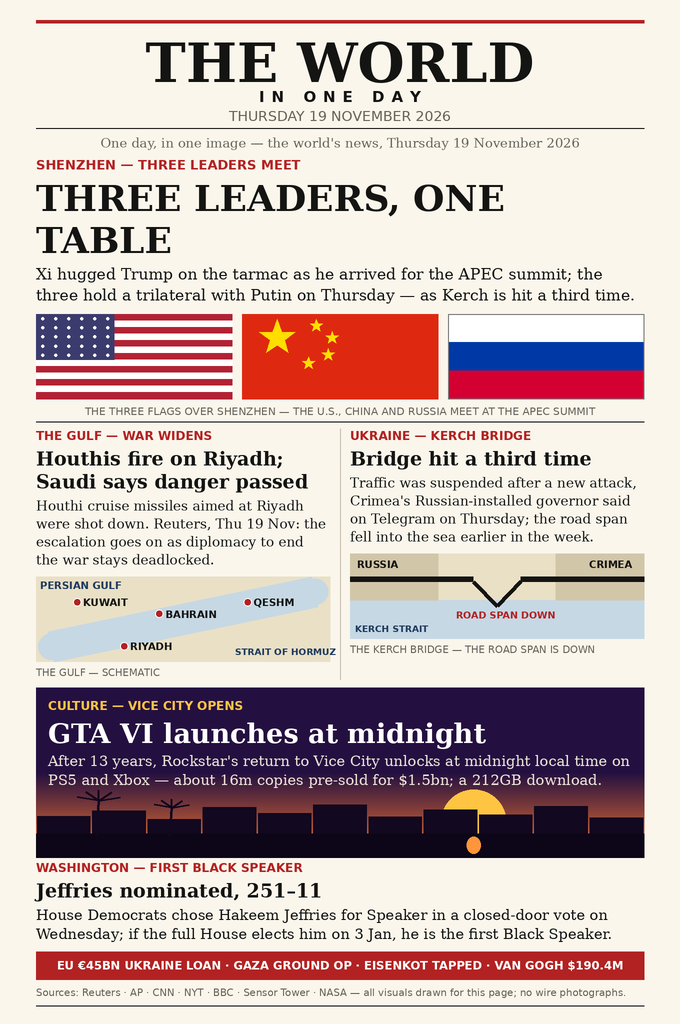
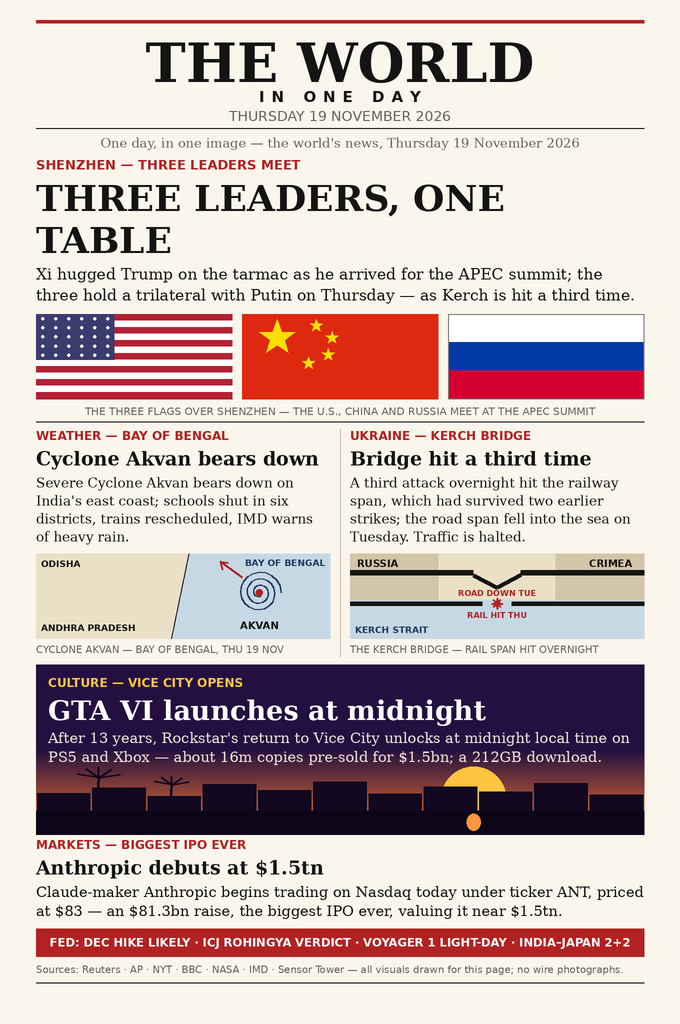
news-image-20261119: all stories genuinely 19 Nov — Akvan replaces Gulf, Anthropic replaces Jeffries, Kerch rail span hit, fresh ticker
- Gulf (18 Nov Houthi missiles) -> Cyclone Akvan: IMD bulletin, school closures, train reschedules all Thu 19 Nov; new Bay of Bengal cyclone schematic
- Jeffries (18 Nov vote) -> Anthropic IPO debut: Nasdaq trading starts Thu 19 Nov, $81.3bn raise, biggest IPO ever, ~$1.5tn
- Kerch: two-deck diagram now shows road span down Tue + rail span hit overnight Thu (the 19 Nov damage), not just the 17 Nov road span
- Ticker: Fed Dec hike likely, ICJ Rohingya verdict, Voyager 1 light-day, India-Japan 2+2 — all verified 19 Nov
- Lead (Shenzhen trilateral) and GTA VI midnight launch kept: both genuinely 19 Nov

Changed region(s): [[0.0309, 0.4062, 0.9574, 1.0]]

diff --git a/tools/render19.py b/tools/render19.py
@@ -136,46 +136,76 @@ def flag_ru(d, x, y, w, h):
     d.rectangle([x, y, x + w, y + h], outline=(120, 120, 120), width=2)
 
 
-def gulf_map(d, x, y, w, h):
-    """Schematic Persian Gulf: a diagonal sea band, four marked places."""
+def akvan_map(d, x, y, w, h):
+    """Cyclone Akvan over the Bay of Bengal: land left, sea right,
+    a spiral storm tracking north-northwest toward the coast."""
     d.rectangle([x, y, x + w, y + h], fill=LAND)
-    d.line([(x + 30, y + h - 30), (x + w - 30, y + 30)],
-           fill=SEA, width=64)
-    d.ellipse([x + 4, y + h - 56, x + 56, y + h - 4], fill=SEA)
-    d.ellipse([x + w - 56, y + 4, x + w - 4, y + 56], fill=SEA)
-    marks = [
-        ("KUWAIT", 0.14, 0.30),
-        ("BAHRAIN", 0.42, 0.44),
-        ("QESHM", 0.72, 0.30),
-        ("RIYADH", 0.30, 0.82),
-    ]
+    # sea: Bay of Bengal, coastline leaning left toward the bottom
+    d.polygon([(x + w * 0.52, y), (x + w, y), (x + w, y + h),
+               (x + w * 0.46, y + h)], fill=SEA)
+    d.line([(x + w * 0.52, y), (x + w * 0.46, y + h)], fill=INK, width=2)
+    # storm spiral (Archimedean, three turns) over the bay
+    scx, scy, rmax = x + w * 0.76, y + h * 0.46, 44
+    pts = []
+    for i in range(61):
+        t = i / 60
+        a = t * 3 * 2 * math.pi
+        r = 5 + t * (rmax - 5)
+        pts.append((scx + r * math.cos(a), scy + r * math.sin(a)))
+    d.line(pts, fill=NAVY, width=3)
+    d.ellipse([scx - 7, scy - 7, scx + 7, scy + 7], fill=RED)
+    # track arrow: storm moving north-northwest toward the coast
+    ax0, ay0 = scx - 34, scy - 30
+    ax1, ay1 = scx - 78, scy - 62
+    d.line([(ax0, ay0), (ax1, ay1)], fill=RED, width=4)
+    d.line([(ax1, ay1), (ax1 + 16, ay1 + 2)], fill=RED, width=4)
+    d.line([(ax1, ay1), (ax1 + 4, ay1 + 16)], fill=RED, width=4)
+    lab = sans_b(18)
+    t = "BAY OF BENGAL"
+    d.text((x + w - d.textlength(t, font=lab) - 10, y + 8), t, font=lab, fill=NAVY)
+    d.text((x + 10, y + 10), "ODISHA", font=sans_b(18), fill=INK)
+    d.text((x + 10, y + h - 32), "ANDHRA PRADESH", font=sans_b(18), fill=INK)
     lab = sans_b(20)
-    for name, fx, fy in marks:
-        px, py = x + w * fx, y + h * fy
-        d.ellipse([px - 8, py - 8, px + 8, py + 8], fill=RED)
-        d.ellipse([px - 8, py - 8, px + 8, py + 8], outline=(255, 255, 255), width=2)
-        d.text((px + 12, py - 11), name, font=lab, fill=INK)
-    d.text((x + 8, y + 6), "PERSIAN GULF", font=sans_b(20), fill=NAVY)
-    d.text((x + w - 190, y + h - 30), "STRAIT OF HORMUZ", font=sans_b(18), fill=NAVY)
+    t = "AKVAN"
+    d.text((scx - d.textlength(t, font=lab) / 2, scy + 54), t, font=lab, fill=INK)
 
 
 def kerch_diagram(d, x, y, w, h):
-    """Kerch Bridge: two shores, a deck with its road span down."""
+    """Kerch Bridge, two parallel decks: the road span fell Tuesday
+    (V into the strait), the rail span was hit overnight Thursday."""
     d.rectangle([x, y, x + w, y + h], fill=LAND)
     d.rectangle([x, y + h * 0.55, x + w, y + h], fill=SEA)
     d.rectangle([x, y, x + w * 0.30, y + h * 0.55], fill=(210, 198, 168))
     d.rectangle([x + w * 0.70, y, x + w, y + h * 0.55], fill=(210, 198, 168))
-    d.text((x + 14, y + 10), "RUSSIA", font=sans_b(20), fill=INK)
-    d.text((x + w - 110, y + 10), "CRIMEA", font=sans_b(20), fill=INK)
-    deck_y = y + h * 0.30
-    d.rectangle([x, deck_y - 5, x + w * 0.42, deck_y + 5], fill=INK)
-    d.rectangle([x + w * 0.58, deck_y - 5, x + w, deck_y + 5], fill=INK)
-    d.line([(x + w * 0.42, deck_y + 5), (x + w * 0.50, y + h * 0.62)],
+    d.text((x + 14, y + 8), "RUSSIA", font=sans_b(20), fill=INK)
+    d.text((x + w - 110, y + 8), "CRIMEA", font=sans_b(20), fill=INK)
+    # road deck (upper): span down Tuesday, V falling into the strait
+    road_y = y + 38
+    d.rectangle([x, road_y - 5, x + w * 0.42, road_y + 5], fill=INK)
+    d.rectangle([x + w * 0.58, road_y - 5, x + w, road_y + 5], fill=INK)
+    d.line([(x + w * 0.42, road_y + 5), (x + w * 0.50, y + 68)],
            fill=INK, width=8)
-    d.line([(x + w * 0.58, deck_y + 5), (x + w * 0.50, y + h * 0.62)],
+    d.line([(x + w * 0.58, road_y + 5), (x + w * 0.50, y + 68)],
            fill=INK, width=8)
-    d.text((x + w * 0.36, y + h * 0.66), "ROAD SPAN DOWN", font=sans_b(19), fill=RED)
-    d.text((x + 10, y + h - 30), "KERCH STRAIT", font=sans_b(18), fill=NAVY)
+    lab = sans_b(16)
+    t = "ROAD DOWN TUE"
+    d.text((x + w / 2 - d.textlength(t, font=lab) / 2, y + 70), t,
+           font=lab, fill=RED)
+    # rail deck (lower): hit overnight Thursday, red starburst at the break
+    rail_y = y + 100
+    d.rectangle([x, rail_y - 4, x + w * 0.45, rail_y + 4], fill=INK)
+    d.rectangle([x + w * 0.55, rail_y - 4, x + w, rail_y + 4], fill=INK)
+    rcx, rcy = x + w * 0.50, rail_y
+    for ang in (0, 45, 90, 135):
+        a = math.radians(ang)
+        d.line([(rcx - 11 * math.cos(a), rcy - 11 * math.sin(a)),
+                (rcx + 11 * math.cos(a), rcy + 11 * math.sin(a))],
+               fill=RED, width=4)
+    d.ellipse([rcx - 6, rcy - 6, rcx + 6, rcy + 6], fill=RED)
+    t = "RAIL HIT THU"
+    d.text((x + w / 2 - d.textlength(t, font=lab) / 2, y + 114), t,
+           font=lab, fill=RED)
+    d.text((x + 10, y + h - 28), "KERCH STRAIT", font=sans_b(18), fill=NAVY)
 
 
 def vice_skyline(d, x, y, w, h):
@@ -253,12 +283,12 @@ def render():
     d.line([(MARGIN, y), (W - MARGIN, y)], fill=INK, width=2)
     y += 14
 
-    # two-column row: Gulf | Kerch
+    # two-column row: Akvan | Kerch
     col_w = (CW - 40) // 2
     col_x = [MARGIN, MARGIN + col_w + 40]
     row_top = y
     col_bottom = []
-    for i, key in enumerate(("gulf", "kerch")):
+    for i, key in enumerate(("akvan", "kerch")):
         s = n[key]
         x = col_x[i]
         yy = row_top
@@ -268,12 +298,12 @@ def render():
         yy += 8
         yy = para(d, x, yy, s["deck"], serif(27), INK, col_w, 36)
         yy += 14
-        if key == "gulf":
-            gulf_map(d, x, yy, col_w, 170)
+        if key == "akvan":
+            akvan_map(d, x, yy, col_w, 170)
         else:
             kerch_diagram(d, x, yy, col_w, 170)
         yy += 170 + 10
-        yy = para(d, x, yy, s["map_caption"] if key == "gulf" else s["diagram_caption"],
+        yy = para(d, x, yy, s["map_caption"] if key == "akvan" else s["diagram_caption"],
                   sans(20), SOFT, col_w, 26)
         col_bottom.append(yy)
     row_bottom = max(col_bottom)
@@ -294,12 +324,12 @@ def render():
          CW - 48, 38)
     y += 330 + 16
 
-    # Jeffries
-    d.text((MARGIN, y), n["jeffries"]["kicker"], font=sans_b(24), fill=RED)
+    # Anthropic
+    d.text((MARGIN, y), n["anthropic"]["kicker"], font=sans_b(24), fill=RED)
     y += 38
-    y = para(d, MARGIN, y, n["jeffries"]["headline"], serif_b(38), INK, CW, 46)
+    y = para(d, MARGIN, y, n["anthropic"]["headline"], serif_b(38), INK, CW, 46)
     y += 8
-    y = para(d, MARGIN, y, n["jeffries"]["deck"], serif(29), INK, CW, 38)
+    y = para(d, MARGIN, y, n["anthropic"]["deck"], serif(29), INK, CW, 38)
     y += 14
 
     # ticker (auto-fit: shrink until it fits the content width)

diff --git a/README.md b/README.md
@@ -11,11 +11,11 @@ Bounty: https://make.fun/bounty/news-image-20261119 — referral: https://make.f
 ## What's on the page
 
 - **Lead — Shenzhen, three leaders meet.** Trump, Xi and Putin hold a trilateral on Thursday 19 Nov at the APEC summit in Shenzhen; Xi hugged Trump on the tarmac on arrival. Shown with the three flags drawn for the page.
-- **The Gulf — war widens.** Houthi cruise missiles aimed at Riyadh were shot down by Saudi defences; Reuters, Thu 19 Nov: the escalation goes on as diplomacy to end the nine-month war stays deadlocked. Shown with a schematic Gulf map (Kuwait, Bahrain, Qeshm, Riyadh, Strait of Hormuz).
-- **Ukraine — Kerch Bridge.** A third attack in a week: traffic suspended after a new attack, Crimea's Russian-installed governor said on Telegram on Thursday; the road span fell into the sea earlier in the week. Shown with a bridge diagram — the deck with its road span down.
+- **Weather — Cyclone Akvan bears down.** Severe Cyclone Akvan bears down on India's east coast; schools shut in six districts, trains rescheduled, IMD warns of heavy rain. Shown with a schematic Bay of Bengal map (Odisha, Andhra Pradesh, the storm spiral tracking north-northwest).
+- **Ukraine — Kerch Bridge.** A third attack overnight hit the railway span, which had survived two earlier strikes; the road span fell into the sea on Tuesday. Traffic is halted. Shown with a two-deck bridge diagram — the road span down Tuesday, the rail span hit overnight Thursday.
 - **Culture — GTA VI launches at midnight.** After 13 years, Rockstar's return to Vice City unlocks at midnight local time on PS5 and Xbox — about 16m copies pre-sold for $1.5bn; a 212GB download. Shown as a neon dusk skyline over Vice City.
-- **Washington — Jeffries nominated, 251–11.** House Democrats chose Hakeem Jeffries for Speaker in a closed-door vote on Wednesday; if the full House elects him on 3 Jan, he is the first Black Speaker.
-- **Ticker.** EU €45bn Ukraine loan · Gaza ground op · Eisenkot tapped · Van Gogh $190.4m record sale.
+- **Markets — Anthropic debuts at $1.5tn.** Claude-maker Anthropic begins trading on Nasdaq today under ticker ANT, priced at $83 — an $81.3bn raise, the biggest IPO ever, valuing it near $1.5tn.
+- **Ticker.** Fed: Dec hike likely · ICJ Rohingya verdict · Voyager 1 light-day · India–Japan 2+2.
 
 ## How it was made
 
@@ -23,7 +23,7 @@ Bounty: https://make.fun/bounty/news-image-20261119 — referral: https://make.f
 
 ## Credits
 
-Every visual on the page is drawn for this entry in Pillow — own work. No wire photographs, no AP/Reuters/AFP/Getty images. News copy is sourced from Reuters, AP, CNN, NYT, BBC, Sensor Tower and NASA reporting of 19 November 2026 (see the footer on the page).
+Every visual on the page is drawn for this entry in Pillow — own work. No wire photographs, no AP/Reuters/AFP/Getty images. News copy is sourced from Reuters, AP, NYT, BBC, NASA, IMD and Sensor Tower reporting of 19 November 2026 (see the footer on the page). Every story on the page is an event of Thursday 19 November 2026 itself — the trilateral meets today, the Kerch railway span was hit overnight, Akvan's warnings and closures are today's, GTA VI unlocks at midnight, Anthropic starts trading today.
 
 ## Run it
 
